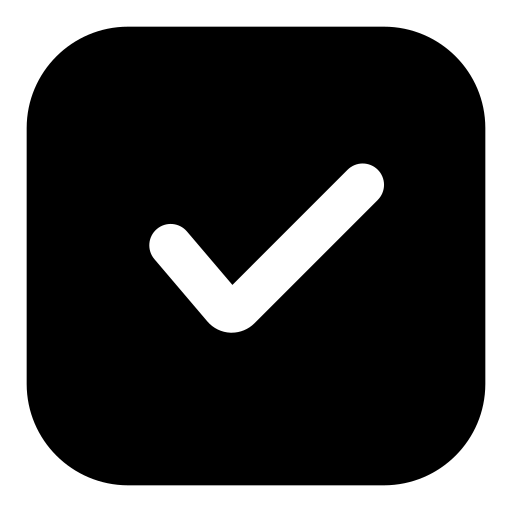
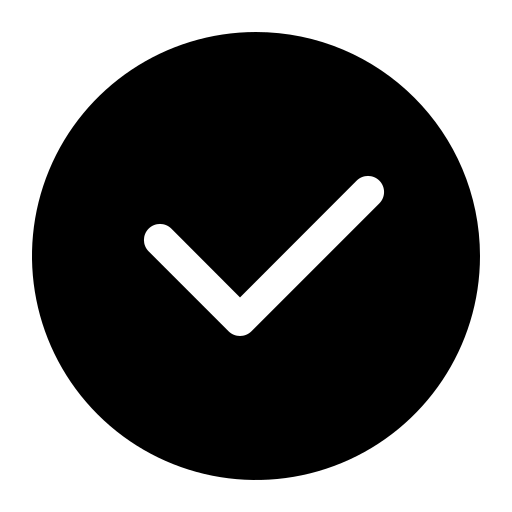
implement text strikethrough and removal logic

Changed region(s): [[0.0312, 0.0312, 0.9688, 0.9688], [0.2812, 0.3125, 0.75, 0.6562]]

diff --git a/style.css b/style.css
@@ -38,16 +38,18 @@ body {
   display: flex;
   justify-content: left;
   align-items: stretch;
-  margin-left: 20px;
-  gap: 10px;
+  gap: 20px;
 }
 
 .main-form input[type="text"] {
   width: 80%;
   padding: 5px;
+  margin-left: 20px;
   font-size: 1.2rem;
   box-sizing: border-box;
+  border-radius: 20px;
   border: 1px solid #ccc;
+  text-align: center;
 }
 
 .main-form button {
@@ -57,7 +59,7 @@ body {
   background-position: center;
   background-size: cover;
   border: none;
-  border-radius: 10px;
+  border-radius: 20px;
   cursor: pointer;
   margin-right: 5px;
   transition: all 0.3s ease;
@@ -74,41 +76,36 @@ body {
 .content-item {
   display: flex;
   align-items: center;
-  gap: 30px;
-  padding: 5px;
   font-weight: 500;
   width: 100%;
+  margin-top: 15px;
 }
 
 .content-item span {
   font-weight: 500;
-}
-
-.content-item::before {
-  content: "";
-  flex: 0 0 20px;
-  height: 20px;
-  margin-left: 10px;
-  background-image: url(img/notselected.png);
-  background-position: center;
-  background-size: cover;
-  cursor: pointer;
-}
-
-.content-item span {
   flex: 1;
+  text-align: center;
   overflow: hidden;
   text-overflow: ellipsis;
   white-space: nowrap;
 }
 
-.content-item::after {
-  content: "";
+.icon {
+  border: none;
   flex: 0 0 20px;
   height: 20px;
-  margin-right: 10px;
-  background-image: url(img/trash.png);
-  background-position: center;
+  background-color: white;
   background-size: cover;
-  cursor: pointer;
+  background-position: center;
+  height: 20px;
+}
+
+.selectIcon {
+  background-image: url(img/notselected.png);
+  margin-left: 15px;
+}
+
+.trashIcon {
+  background-image: url(img/trash.png);
+  margin-right: 15px;
 }

diff --git a/script.js b/script.js
@@ -1,14 +1,38 @@
 function addNewEntry() {
   const container = document.getElementById("allContent");
   const newEntry = document.getElementById("entry");
-  if (newEntry.value.trim() == "") {
+  const text = newEntry.value.trim();
+  if (!text) {
     return;
   }
   const newDiv = document.createElement("div");
   newDiv.className = "content-item";
+
+  const selectIcon = document.createElement("button");
+  selectIcon.className = "icon selectIcon";
+
   const newSpan = document.createElement("span");
-  newSpan.textContent = newEntry.value;
-  newDiv.appendChild(newSpan);
+  newSpan.textContent = text;
+
+  const trashIcon = document.createElement("button");
+  trashIcon.className = "icon trashIcon";
+
+  selectIcon.onclick = function () {
+    if (this.style.backgroundImage.includes("checked.png")) {
+      this.style.backgroundImage = "url('img/notselected.png')";
+      newSpan.style.textDecoration = "none";
+    } else {
+      this.style.backgroundImage = "url('img/checked.png')";
+      newSpan.style.textDecoration = "line-through";
+    }
+  };
+
+  trashIcon.onclick = function () {
+    newDiv.remove();
+  };
+
+  newDiv.append(selectIcon, newSpan, trashIcon);
   container.appendChild(newDiv);
   newEntry.value = "";
+  newEntry.focus();
 }

diff --git a/index.html b/index.html
@@ -22,12 +22,12 @@
             <button type="button" onclick="addNewEntry()"></button>
           </form>
         </div>
-        <div class="content" id="allContent">
-          <div class="content-item">
-            <span>Şunu yap</span>
-          </div>
-        </div>
       </header>
+      <section>
+        <div class="content" id="allContent">
+          <div class="content-item"></div>
+        </div>
+      </section>
     </main>
 
     <script src="script.js"></script>
